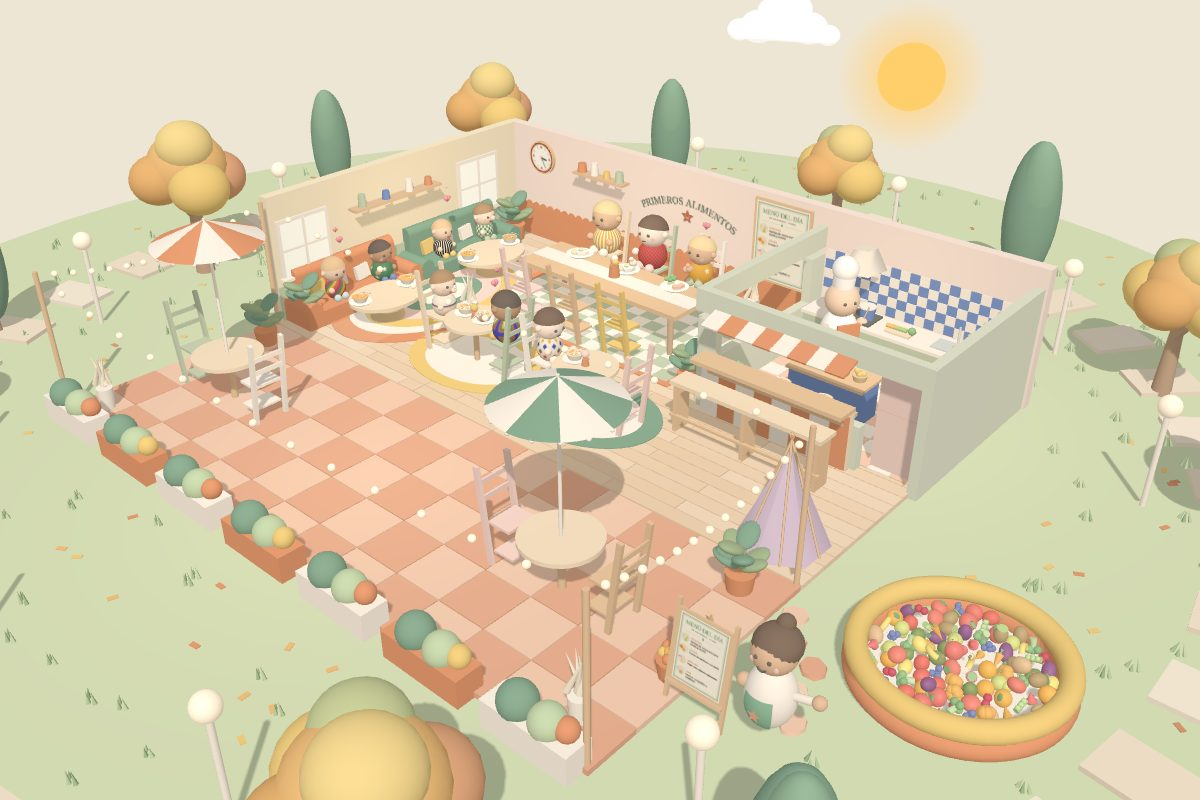
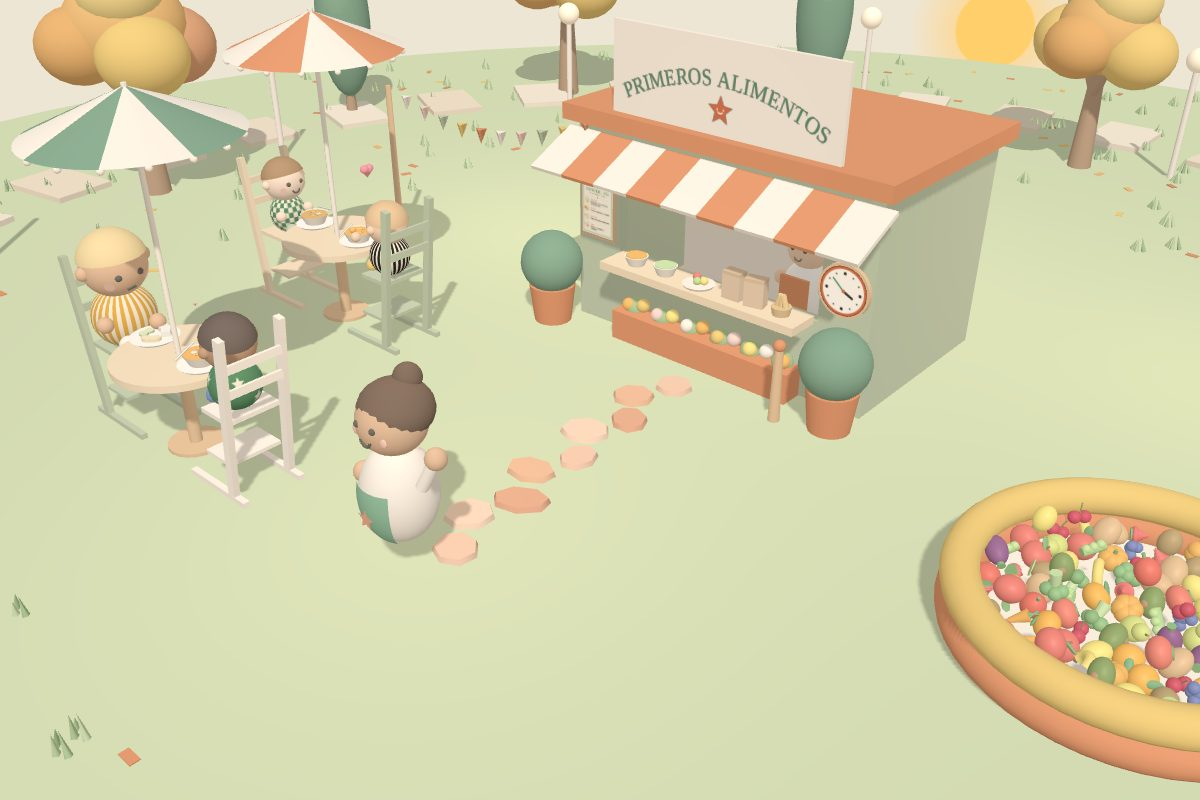
Comedor siempre al aire libre: crece con mesas y jardín (fuente con brócoli de mármol, estatuas, setos, pérgola). Landing: sección sencilla con captura del nivel 1
Claude-Session: https://claude.ai/code/session_01Q3rhL7YYmPrw8ANC1Zn74v

diff --git a/comedor/index.html b/comedor/index.html
@@ -341,7 +341,7 @@ const PANTRY={
 };
 const P2=Math.PI/2,PI=Math.PI;
 const SEATS={
- 'Banco':[[-5.95,1.8,P2],[-3.85,1.8,-P2],[-4.55,4.9,P2],[-2.45,4.9,-P2]].map(([x,z,r])=>[x,z,r,.88,1.12,.6]),
+ 'Banco':[],
  'Cola':[[-.55,1.0],[-.45,1.85],[-.3,2.7]].map(([x,z])=>[x,z,PI,.05,.42,.4]),
  'Barra':[2.95,3.75,4.55,5.35].map(x=>[x,-.82,PI,1.15,1.42,.62]),
  'Pequeño':[[-1.2,-4.4],[.9,-2.6]].flatMap(([x,z])=>[[x,z-.95,0,.88,1.12,.55],[x,z+.95,PI,.88,1.12,.55]]),
@@ -388,7 +388,7 @@ function arch(x,y0,z,w,h,c,ry=0,mat){const g=new THREE.Group();g.position.set(x,
  const t=new THREE.Mesh(geo('half'+w,()=>new THREE.CircleGeometry(w/2,32,0,PI)),mm);t.position.y=h-w/2;g.add(t);return g}
 
 // exterior
-mk(cyl(17,17,.4,64),0xa9c487,0,-.21,0);
+const OUTER=new THREE.Group();S.add(OUTER);CUR=OUTER;mk(cyl(17,17,.4,64),0xa9c487,0,-.21,0);
 for(let i=0;i<40;i++){const a=i/40*Math.PI*2,t=mk(box(1.4,.1,1),i%2?0xdcc8a6:0xe8d9bb,Math.cos(a)*12.6,.03,Math.sin(a)*12.6);t.rotation.y=-a}
 const TREEF=[];
 function tree(x,z,s,i){const T=0x8a6446,G=[0x6f9a5a,0x5c8a50,0x7fa865,0x668f55];
@@ -397,7 +397,7 @@ function tree(x,z,s,i){const T=0x8a6446,G=[0x6f9a5a,0x5c8a50,0x7fa865,0x668f55];
 function cypress(x,z,s){mk(cyl(.08*s,.12*s,.6*s,8),0x8a6446,x,.3*s,z);const c=mk(sph(+(.55*s).toFixed(2)),0x3f6b4f,x,1.9*s,z);c.scale.set(1,2.8,1);const c2=mk(sph(+(.42*s).toFixed(2)),0x4a7a58,x+.08*s,2.4*s,z+.1*s);c2.scale.set(1,2.6,1)}
 [[-10,-8,1.1],[9,-8.5,1],[-11,1,1.15],[12,-4.5,.95],[-8,9.5,1.05],[7,10,1.1],[0,-10.5,1]].forEach(([x,z,s],i)=>tree(x,z,s,i));
 [[-5.5,-10.6,1],[4.8,-10.9,1.1],[-12.2,-4,.95],[10.5,7.6,1],[-11.4,6,.9]].forEach(([x,z,s])=>cypress(x,z,s));
-for(let i=1;i<12;i++){const a=i/12*Math.PI*2+.13,x=Math.cos(a)*11,z=Math.sin(a)*11;mk(cyl(.05,.05,1.9),C.cream,x,.95,z);bulb(x,2,z,.2)}
+for(let i=1;i<12;i++){const a=i/12*Math.PI*2+.13,x=Math.cos(a)*11,z=Math.sin(a)*11;mk(cyl(.05,.05,1.9),C.cream,x,.95,z);bulb(x,2,z,.2)}CUR=null;
 
 const REST=new THREE.Group();S.add(REST);const BIG=new THREE.Group(),SOF=new THREE.Group(),PLAY=new THREE.Group(),SMALL=new THREE.Group(),MID=new THREE.Group();REST.add(BIG,SOF,PLAY,SMALL,MID);const WIDE=new THREE.Group(),NARROW=new THREE.Group();REST.add(WIDE,NARROW);CUR=REST;
 // suelo de madera y paredes
@@ -646,7 +646,7 @@ function dish(d,p,x,y,z,sc=1.05){const g=new THREE.Group();g.position.set(x,y,z)
 
 
 // niveles: el restaurante crece con los bebés que comieron ayer
-const LVN=['','Para llevar','Restaurante pequeño','Restaurante','Restaurante con terraza','Restaurante con azotea','Restaurante con jardín','Franquicias'];
+const LVN=['','Para llevar','Terraza','Jardín con fuente','Jardín con estatuas','Jardín de palacio','Gran jardín de palacio','Franquicias'];
 const levelOf=n=>n<=3?1:n<=6?2:n<=12?3:n<=25?4:n<=50?5:n<=150?6:7;
 function signTex2(sub){const c=document.createElement('canvas');c.width=512;c.height=150;const x=c.getContext('2d'),tx=new THREE.CanvasTexture(c);tx.encoding=THREE.sRGBEncoding;
  const d=()=>{x.clearRect(0,0,512,150);x.fillStyle='#f4e9d8';x.beginPath();x.roundRect?x.roundRect(4,4,504,142,40):x.rect(4,4,504,142);x.fill();x.fillStyle='#4a8760';x.textAlign='center';x.font='50px "Luckiest Guy", cursive';x.fillText('PRIMEROS ALIMENTOS',256,70,470);
@@ -671,7 +671,7 @@ const KIOSK=new THREE.Group();S.add(KIOSK);CUR=KIOSK;
  mk(box(3.1,1.12,.06),0xf4e9d8,X,3.3,Z+1.28);const sg=new THREE.Mesh(new THREE.PlaneGeometry(2.9,.97),new THREE.MeshBasicMaterial({map:signTex,transparent:true}));sg.position.set(X,3.3,Z+1.32);KIOSK.add(sg);
  {const km=new THREE.Group();km.position.set(X-1.775,1.5,Z+1.32);KIOSK.add(km);mk(box(.56,.74,.04),C.wood,0,0,0,km);const kp=new THREE.Mesh(new THREE.PlaneGeometry(.5,.66),new THREE.MeshStandardMaterial({map:mbT,roughness:.9}));kp.position.z=.025;km.add(kp);mk(cyl(.01,.01,.3,4),0x8a6446,0,.48,0,km).rotation.z=.5;km.traverse(o=>o.userData.menu=1)}
  [[-1.6],[1.4]].forEach(([dx])=>{mk(cyl(.3,.24,.5),C.terra,X+dx*1.4,.25,Z+1.7);mk(sph(.4),C.olive,X+dx*1.4,.8,Z+1.7)});
- [[-4.9,1.8,C.cream,C.terra],[-3.5,4.9,C.cream,C.olive]].forEach(([x,z,a,b2])=>{mk(cyl(.7,.7,.08,32),C.woodL,x,1.05,z);mk(cyl(.07,.07,1),C.wood,x,.5,z);mk(cyl(.3,.3,.04,20),C.wood,x,.02,z);parasol(x,z,a,b2)});
+
  {const pts=[[X-2.0,2.55,Z+1.3],[-6.4,2.3,-.4]];mk(cyl(.04,.05,2.3,8),C.wood,-6.4,1.15,-.4);for(let i=0;i<=10;i++){const t=i/10,x=pts[0][0]+(pts[1][0]-pts[0][0])*t,z=pts[0][2]+(pts[1][2]-pts[0][2])*t,y=pts[0][1]+(pts[1][1]-pts[0][1])*t-Math.sin(t*PI)*.35;if(i%1===0&&i<10){const f=new THREE.Mesh(new THREE.ConeGeometry(.09,.2,3),M([C.terra,C.mustard,C.sage,C.blush,C.cream][i%5]));f.rotation.x=PI;f.position.set(x,y-.1,z);f.rotation.y=Math.atan2(pts[1][0]-pts[0][0],pts[1][2]-pts[0][2]);KIOSK.add(f)}}}
  {mk(box(2.6,.38,.3),C.terra,X,.19,Z+1.45);for(let i=0;i<11;i++)mk(sph(.085),[0xe8892c,0xd9a23b,0xe8b4a8,0xf3d04a,C.cream][i%5],X-1.15+i*.23,.45+(i%2)*.05,Z+1.45);for(let i=0;i<6;i++)mk(sph(.13),0x6f9a5a,X-1.1+i*.44,.4,Z+1.38)}
  [[.0,.35]].forEach(([x,z])=>{mk(cyl(.05,.07,.9,10),C.wood,x+.9,.45,z);mk(sph(.07),C.terra,x+.9,.93,z)});
@@ -753,7 +753,7 @@ const starG=new THREE.OctahedronGeometry(.09),starM=new THREE.MeshStandardMateri
 function heart(){const h=new THREE.Group();mk(sph(.05),0xe05a6a,-.035,0,0,h);mk(sph(.05),0xe05a6a,.035,0,0,h);const c=mk(new THREE.ConeGeometry(.07,.09,12),0xe05a6a,0,-.06,0,h);c.rotation.x=PI;return h}
 let used={},babies=[],LVL=4;
 let LASTK='';
-function seatFor(st){const base=LVL>=4?['Trozos','Purés','Grumos']:['Trozos','Purés'];const keys=LVL===1?['Banco','Cola']:LVL===2?['Pequeño','Barra']:[...(base.includes(st)?[st]:[]),...base.filter(x=>x!==st),'Barra',...(LVL>=4?['Terraza']:[]),...(LVL>=5?['Azotea']:[]),...(LVL>=6?['Jardín']:[])];for(const k of keys){const n=used[k]||0;if(n<SEATS[k].length){used[k]=n+1;LASTK=k;return SEATS[k][n]}}return null}
+function seatFor(st){const keys=['Banco','Cola'];for(const k of keys){const n=used[k]||0;if(n<SEATS[k].length){used[k]=n+1;LASTK=k;return SEATS[k][n]}}return null}
 function addBaby(d,i,instant){const st=d.stage||STAGE[d.tex],seat=seatFor(st);if(!seat)return null;
  const [x,z,ry,s,py,po,y0]=seat;
  const g=new THREE.Group();g.position.set(x,y0||0,z);g.rotation.y=ry;S.add(g);
@@ -795,7 +795,38 @@ const HOST=new THREE.Group();S.add(HOST);const hostArm=new THREE.Group();
  
  H.traverse(o=>o.userData.host=1)}
 const PATHG=new THREE.Group();S.add(PATHG);
-function buildPath(A,B,Cc){while(PATHG.children.length)PATHG.remove(PATHG.children[0]);const len=Math.hypot(B[0]-A[0],B[1]-A[1]),n=Math.max(3,Math.round(len/.5));let sd=5;const rnd=()=>(sd=(sd*16807)%2147483647)/2147483647;
+const TBL=new THREE.Group();S.add(TBL);const GDN=new THREE.Group();S.add(GDN);
+const MARB=0xefebe4;
+function clearG(g){while(g.children.length)g.remove(g.children[0])}
+function layout(L){if(L===1)return {tables:[[-4.9,1.8,2],[-3.5,4.9,2]],Ze:4.85};
+ const T=[0,2,4,8,12,16,24,24][L],c=L===2?1:L<=4?2:3,rows=Math.ceil(T/(2*c)),tables=[];
+ for(let r=0;r<rows;r++)for(let k=0;k<c;k++)[[-3.4-k*3,1],[2.8+k*3,1]].forEach(([x])=>{if(tables.length<T)tables.push([x,1.8+r*3,4])});
+ return {tables,Ze:1.8+rows*3+.8,c,rows}}
+function marbleStatue(kind,x,z,g){mk(cyl(.42,.48,.7,16),MARB,x,.35,z,g,.4);mk(cyl(.5,.5,.08,16),MARB,x,.74,z,g,.4);
+ if(kind==='zanahoria'){const c=mk(new THREE.ConeGeometry(.22,.95,16),MARB,x,1.28,z,g,.35);c.rotation.x=PI;[-.3,0,.3].forEach(r=>{const l=mk(cyl(.03,.05,.35,6),MARB,x,1.86,z,g,.35);l.rotation.z=r})}
+ else if(kind==='pera'){mk(sph(.3),MARB,x,1.08,z,g,.35);mk(sph(.21),MARB,x,1.42,z,g,.35);mk(cyl(.025,.025,.15,6),MARB,x,1.68,z,g,.35)}
+ else if(kind==='aguacate'){const a=mk(sph(.3),MARB,x,1.2,z,g,.35);a.scale.set(.85,1.25,.85);const h=mk(sph(.16),0xd9d3c7,x,1.15,z+.22,g,.35);h.scale.z=.4}
+ else{const f=mk(new THREE.ConeGeometry(.26,.5,16),MARB,x,1.13,z,g,.35);f.rotation.x=PI;mk(sph(.26),MARB,x,1.34,z,g,.35).scale.y=.6}}
+function fountain(x,z,g){mk(cyl(1.25,1.32,.38,40),MARB,x,.19,z,g,.4);const w=new THREE.Mesh(cyl(1.1,1.1,.04,40),new THREE.MeshStandardMaterial({color:0x9fc6d8,roughness:.08,metalness:.1}));w.position.set(x,.36,z);g.add(w);
+ const rim=mk(new THREE.TorusGeometry(1.28,.07,10,40),MARB,x,.38,z,g,.4);rim.rotation.x=P2;mk(cyl(.22,.3,.7,16),MARB,x,.6,z,g,.4);mk(cyl(.55,.45,.12,24),MARB,x,.98,z,g,.4);
+ mk(cyl(.12,.17,.65,12),MARB,x,1.35,z,g,.35);[[0,1.95,0,.36],[.3,1.8,.1,.26],[-.3,1.82,.05,.27],[.05,1.8,-.3,.25],[-.08,1.78,.3,.25],[.18,2.15,.1,.22],[-.18,2.12,-.1,.22]].forEach(([dx,y,dz,r])=>mk(sph(r),MARB,x+dx,y,z+dz,g,.35));
+ for(let i=0;i<6;i++){const a=i/6*PI*2,j=new THREE.Mesh(new THREE.TorusGeometry(.35,.02,6,12,PI*.8),new THREE.MeshStandardMaterial({color:0xcfe6f0,transparent:true,opacity:.7}));j.position.set(x+Math.cos(a)*.62,.95,z+Math.sin(a)*.62);j.rotation.y=-a;g.add(j)}}
+function buildGarden(){clearG(TBL);clearG(GDN);const L=LVL,lo=layout(L),cols=[[C.cream,C.terra],[C.cream,C.olive],[C.cream,C.mustard],[C.cream,C.sage]];SEATS.Banco=[];used={};
+ const pc=CUR;CUR=TBL;
+ lo.tables.forEach(([x,z,n],i)=>{mk(cyl(.7,.7,.08,32),C.woodL,x,1.05,z);mk(cyl(.07,.07,1),C.wood,x,.5,z);mk(cyl(.3,.3,.04,20),C.wood,x,.02,z);parasol(x,z,...cols[i%4]);
+  const ss=n===2?[[x-1.05,z,P2],[x+1.05,z,-P2]]:[[x-1.05,z,P2],[x+1.05,z,-P2],[x,z-1.05,0],[x,z+1.05,PI]];
+  ss.forEach(([sx,sz,r],j)=>{trona(sx,sz,r,.88,WOOD[(i+j)%6],TBL,0);SEATS.Banco.push([sx,sz,r,.88,1.12,.6])})});
+ CUR=GDN;const Ze=lo.Ze;
+ if(L>=2){for(let z=1.4;z<Ze-1;z+=2.2){if(L>=3&&Math.abs(z-(Ze-3.4))<2.2)continue;[-1.3,.7].forEach((x,k)=>{mk(cyl(.2,.16,.3,12),C.terra,x,.15,z);for(let i=0;i<5;i++)mk(sph(.08),[0xe8892c,0xd9a23b,0xe8b4a8,0xd9433a,0xf3d04a][(i+k)%5],x+Math.cos(i*1.3)*.09,.38,z+Math.sin(i*1.3)*.09)})}}
+ if(L>=3)fountain(-.4,Math.max(4.6,Ze-3.4),GDN);
+ if(L>=4){marbleStatue('zanahoria',-3.7,-.7,GDN);marbleStatue('pera',3.0,-.7,GDN)}
+ if(L>=5){const side=3.4+3*(lo.c-1)+1.7;[-side-.6,side-.6+.6].forEach(x=>{for(let z=.6;z<Ze-.4;z+=.9)mk(box(.5,.5,.85),0x5c8a50,x,.25,z)});
+  [[-1.5],[.9]].forEach(([x])=>mk(cyl(.06,.06,2.6,8),C.cream,x,1.3,Ze-1.2));const ar=mk(new THREE.TorusGeometry(1.2,.06,8,24,PI),C.cream,-.3,2.6,Ze-1.2);for(let i=0;i<9;i++){const a=i/8*PI;mk(sph(.13),[0xe8b4a8,0x6f9a5a,0xf3d04a][i%3],-.3+Math.cos(a)*1.2,2.6+Math.sin(a)*1.2,Ze-1.2)}}
+ if(L>=6){marbleStatue('aguacate',-4.4,Ze+.6,GDN);marbleStatue('fresa',5.4,Ze+.6,GDN);for(let i=0;i<6;i++){[-1,1].forEach(k=>{const x=k<0?-12.6:12,z=1+i*2.4;mk(cyl(.08,.12,.5,8),0x8a6446,x,.25,z);mk(sph(.42),0x5c8a50,x,.85,z)})}}
+ CUR=pc;return lo}
+
+function stone(x,z,i){const st=new THREE.Mesh(cyl(.24,.26,.06,7),M([0xe0a07c,0xd98a5f,0xc9724f,0xe8b48f][i%4],.9));st.position.set(x,.04,z);st.scale.set(.9+(i%3)*.12,1,.75+(i%2)*.15);st.rotation.y=i*1.7;st.receiveShadow=true;PATHG.add(st)}
+function buildPath(A,B,Cc,keep){if(!keep)while(PATHG.children.length)PATHG.remove(PATHG.children[0]);const len=Math.hypot(B[0]-A[0],B[1]-A[1]),n=Math.max(3,Math.round(len/.5));let sd=5;const rnd=()=>(sd=(sd*16807)%2147483647)/2147483647;
  for(let i=0;i<=n;i++){const t=i/n,u=1-t,x=u*u*A[0]+2*u*t*Cc[0]+t*t*B[0],z=u*u*A[1]+2*u*t*Cc[1]+t*t*B[1],dx=2*u*(Cc[0]-A[0])+2*t*(B[0]-Cc[0]),dz=2*u*(Cc[1]-A[1])+2*t*(B[1]-Cc[1]),dl=Math.hypot(dx,dz)||1,off=(i%2?.13:-.13);
   const st=new THREE.Mesh(cyl(.24,.26,.06,7),M([0xe0a07c,0xd98a5f,0xc9724f,0xe8b48f][i%4],.9));st.position.set(x-dz/dl*off,.04,z+dx/dl*off);st.scale.set(.85+rnd()*.35,1,.7+rnd()*.25);st.rotation.y=rnd()*6;st.receiveShadow=true;PATHG.add(st)}}
 const ENT=new THREE.Group();S.add(ENT);let MENUS=null;
@@ -821,7 +852,7 @@ const MOONM=new THREE.Mesh(new THREE.PlaneGeometry(6.5,6.5),new THREE.MeshBasicM
 SKY.add(SUNM,MOONM);[SUNM,MOONM].forEach(m=>m.renderOrder=-1);
 // estación del año: hojas, flores o pinos
 const SEAK=(location.hash.match(/otono|invierno|primavera|verano/)||[])[0]||{otoño:'otono'}[SEASON.k]||SEASON.k;
-{let sd=7;const rnd=()=>(sd=(sd*16807)%2147483647)/2147483647;const SE=new THREE.Group();S.add(SE);
+{let sd=7;const rnd=()=>(sd=(sd*16807)%2147483647)/2147483647;const SE=new THREE.Group();OUTER.add(SE);
  const free=(x,z)=>!(Math.abs(x)<7.8&&z>-7&&z<7.4)&&Math.hypot(x-9.73,z-1.88)>2.1&&Math.hypot(x-8,z-3.4)>1.2&&Math.hypot(x,z)<16;
  const spot=()=>{for(let k=0;k<40;k++){const a=rnd()*PI*2,r=7+rnd()*9,x=Math.cos(a)*r,z=Math.sin(a)*r;if(free(x,z))return [x,z]}return null};
  if(SEAK==='otono'){TREEF.forEach((m,i)=>m.material=M([0xd98a3a,0xe0a940,0xc9772f,0x8fa35a,0xd9a23b,0xb8653a,0xe0b54f][(i*3+(m.userData.tk||0))%7],.85));
@@ -832,7 +863,7 @@ const SEAK=(location.hash.match(/otono|invierno|primavera|verano/)||[])[0]||{oto
   if(SEAK==='primavera')TREEF.forEach((m,i)=>{if(i%3===1)m.material=M(0xf2c4cc,.85)});
   for(let i=0;i<110;i++){const p=spot();if(!p)continue;const h=.18+rnd()*.15;mk(cyl(.012,.012,h,5),0x5f8a50,p[0],h/2,p[1],SE).castShadow=false;mk(sph(.055),cols[i%cols.length],p[0],h+.03,p[1],SE);if(i%3===0)mk(sph(.03),0x8a5a3c,p[0],h+.06,p[1],SE)}}
 }
-{let sd=11;const rnd=()=>(sd=(sd*16807)%2147483647)/2147483647;const GR=new THREE.Group();S.add(GR);const gc=[0x7fa865,0x6f9a5a,0x8fb478,0x5f8a50];
+{let sd=11;const rnd=()=>(sd=(sd*16807)%2147483647)/2147483647;const GR=new THREE.Group();OUTER.add(GR);const gc=[0x7fa865,0x6f9a5a,0x8fb478,0x5f8a50];
  for(let i=0;i<260;i++){const a=rnd()*PI*2,r=7.5+rnd()*9,x=Math.cos(a)*r,z=Math.sin(a)*r;if(Math.abs(x)<7.8&&z>-7&&z<7.4)continue;if(Math.hypot(x-9.6,z-1.9)<2)continue;
   for(let k=0;k<3;k++){const h=.14+rnd()*.12,c=new THREE.Mesh(new THREE.ConeGeometry(.035,h,4),M(gc[(i+k)%4]));c.position.set(x+(k-1)*.06,h/2,z+(k%2)*.05);c.rotation.z=(k-1)*.3;GR.add(c)}}}
 // el tiempo de verdad en Barcelona (Open-Meteo)
@@ -844,7 +875,7 @@ const RAIN=new THREE.LineSegments(rainG,new THREE.LineBasicMaterial({color:0x9fb
 const SN=900,snowA=new Float32Array(SN*3);for(let i=0;i<SN;i++)snowA.set([rnd2()*40-20,rnd2()*16,rnd2()*40-20],i*3);
 const snowG=new THREE.BufferGeometry();snowG.setAttribute('position',new THREE.BufferAttribute(snowA,3));
 const SNOW=new THREE.Points(snowG,new THREE.PointsMaterial({color:0xffffff,size:.13,transparent:true,opacity:.9}));SNOW.frustumCulled=false;SNOW.visible=false;S.add(SNOW);
-const PUD=new THREE.Group();S.add(PUD);[[-9,-3,1.2],[-10,5,.9],[8.5,-6,1],[-8.5,8.5,.8],[12.5,4.5,.7],[-3,-9.5,1],[4,-9.6,.8]].forEach(([x,z,r])=>{const m=new THREE.Mesh(new THREE.CircleGeometry(r,24),new THREE.MeshStandardMaterial({color:0x9fb6cc,roughness:.15,metalness:.1,transparent:true,opacity:.75}));m.rotation.x=-P2;m.position.set(x,.015,z);m.scale.x=1.5;m.receiveShadow=true;PUD.add(m)});PUD.visible=false;
+const PUD=new THREE.Group();OUTER.add(PUD);[[-9,-3,1.2],[-10,5,.9],[8.5,-6,1],[-8.5,8.5,.8],[12.5,4.5,.7],[-3,-9.5,1],[4,-9.6,.8]].forEach(([x,z,r])=>{const m=new THREE.Mesh(new THREE.CircleGeometry(r,24),new THREE.MeshStandardMaterial({color:0x9fb6cc,roughness:.15,metalness:.1,transparent:true,opacity:.75}));m.rotation.x=-P2;m.position.set(x,.015,z);m.scale.x=1.5;m.receiveShadow=true;PUD.add(m)});PUD.visible=false;
 const cloudT=(()=>{const c=document.createElement('canvas');c.width=256;c.height=128;const x=c.getContext('2d');x.fillStyle='#fff';[[70,80,38],[115,62,48],[165,72,42],[200,88,30],[100,92,34],[150,96,32]].forEach(([a,b,r])=>{x.beginPath();x.arc(a,b,r,0,7);x.fill()});const t=new THREE.CanvasTexture(c);t.encoding=THREE.sRGBEncoding;return t})();
 const CLOUDS=[[-9,3,1.1],[8,5,.85],[1,-3,.75],[-16,-2,.95],[15,0,1]].map(([x,y,sc])=>{const g=new THREE.Group();g.position.set(x,y,0);g.scale.setScalar(sc);const mat=new THREE.MeshStandardMaterial({color:0xffffff,roughness:1,emissive:0xffffff,emissiveIntensity:.45,fog:false});
  [[0,.2,0,1.5],[1.6,-.2,.2,1.15],[-1.6,-.25,0,1.2],[.6,.9,-.2,1.05],[-.8,.7,.3,.95],[2.8,-.55,0,.75],[-2.8,-.5,0,.8]].forEach(([a,b2,c,r])=>{const m=new THREE.Mesh(sph(r),mat);m.position.set(a,b2,c);m.scale.y=.85;g.add(m)});
@@ -1019,7 +1050,8 @@ async function fetchLive(sl){try{const r=await fetch(FS,{cache:'no-store'});if(!
  const MC={};(doc.items||[]).forEach(x=>{if(x&&x.b)MC[x.b]=(MC[x.b]||0)+1});
  return (doc.items||[]).filter(x=>x&&x.ml===sl.meal&&Array.isArray(x.ings)&&x.ings.length&&STG[x.tex]).map(x=>({k:String(x.k),meal:x.ml,m:Math.max(4,Math.min(36,+x.m||6)),dish:String(x.dish||x.ings.join(', ')).slice(0,90),ings:x.ings.map(String).slice(0,6),tex:x.tex,stage:STG[x.tex],r:['love','like','meh'].includes(x.r)?x.r:'like',nw:x.nw?1:0,mc:x.b?MC[x.b]:1}))}catch(e){return []}}
 let demoN=0;
-async function getList(sl){if(LIVE)return fetchLive(sl);const all=service(sl).map((d,i)=>({...d,k:'d'+i}));
+async function getList(sl){const lim=+((location.hash.match(/bebes-(\d+)/)||[])[1]||0);if(lim)return (await getList0(sl)).slice(0,lim);return getList0(sl)}
+async function getList0(sl){if(LIVE)return fetchLive(sl);const all=service(sl).map((d,i)=>({...d,k:'d'+i}));
  if(!sl.open)return all;if(!demoN)demoN=Math.max(3,Math.round(all.length*Math.min(1,.35+sl.frac*.65)));else demoN++;return all.slice(0,Math.min(demoN,all.length))}
 const keys=new Set();
 function sync(list,first){list.forEach(d=>{if(keys.has(d.k))return;keys.add(d.k);const i=TODAY.length;TODAY.push(d);addBaby(d,i,first);if(!first&&!sheet.classList.contains('open'))toast(d)});topFood();refreshKitchen()}
@@ -1032,13 +1064,18 @@ setInterval(async()=>{updClock();const n=nowSlot();if(n.k!==SL.k||n.open!==SL.op
 // cámara
 let portrait=false,AYER=null;
 function applyLevel(){const h=(location.hash.match(/nivel-(\d)/)||[])[1];LVL=h?Math.max(1,Math.min(7,+h)):AYER!=null?levelOf(AYER):4;
- KIOSK.visible=LVL===1;REST.visible=LVL>=2;SMALL.visible=LVL===2;BIG.visible=SOF.visible=LVL>=3;MID.visible=PLAY.visible=TER.visible=LVL>=4;WIDE.visible=LVL>=3;NARROW.visible=LVL===2;{const n=LVL===2;ARCH.position.x=sign.position.x=n?-.95:-1.3;ARCH.scale.setScalar(n?.8:1);ARCH.visible=false;sign.scale.setScalar(n?.8:1)}
- const OF=LVL===1?[0,0]:LVL<=3?[-7.1,-.1]:[0,0];ENT.position.set(OF[0],0,OF[1]);movePit(...(LVL===1?[5.23,1.38]:LVL<=3?[5.33,3.38]:[9.73,1.88]));ROOF.visible=LVL>=5;GAR.visible=LVL>=6;FR.visible=LVL>=7;S.fog.far=LVL>=7?160:70;ctl.maxDistance=LVL>=7?110:40;
- CLOCK.scale.setScalar(LVL===1?.75:1);if(LVL===1)CLOCK.position.set(1.28,1.5,-.24),CLOCK.rotation.set(0,0,0);else if(LVL===2)CLOCK.position.set(-2.3,2.3,-2.4),CLOCK.rotation.set(0,P2,0);else CLOCK.position.set(-5.95,2.3,-5.94),CLOCK.rotation.set(0,0,0);
- if(LVL===1)HOST.position.set(-.05,0,4.85);else HOST.position.set(8.4+OF[0],0,4.7+OF[1]);HOST.rotation.y=0;
- buildPath(...(LVL===1?[[-.5,.55],[-.1,4.35],[-.3,2.4]]:LVL<=3?[[1.1,1.95],[1.3,4.15],[1.1,3.0]]:[[7.2,2.4],[8.35,4.2],[8.2,3.0]]));ENT.visible=LVL>1;frame()}
+ KIOSK.visible=true;REST.visible=false;TER.visible=false;ROOF.visible=false;GAR.visible=false;FR.visible=LVL>=7;S.fog.far=LVL>=7?160:70;ctl.maxDistance=LVL>=7?110:40;ARCH.visible=false;
+ OUTER.scale.setScalar([1,1,1,1.12,1.3,1.45,1.75,1.75][LVL]);
+ const lo=buildGarden();LO=lo;const Ze=lo.Ze;
+ CLOCK.scale.setScalar(.75);CLOCK.position.set(1.28,1.5,-.24);CLOCK.rotation.set(0,0,0);
+ if(LVL===1){HOST.position.set(-.05,0,4.85);movePit(5.23,1.38)}else{HOST.position.set(-.3,0,Ze);movePit(2.9,Ze-.2)}HOST.rotation.y=0;
+ ENT.position.set(HOST.position.x-8.4,0,HOST.position.z-4.7);ENT.visible=LVL>1;
+ clearG(PATHG);if(LVL===1)buildPath([-.5,.55],[-.1,4.35],[-.3,2.4],1);else if(LVL===2)buildPath([-.5,.55],[-.3,Ze-.45],[-.4,Ze/2],1);
+ else{const fz=Math.max(4.6,Ze-3.4);buildPath([-.5,.55],[-.4,fz-1.75],[-.45,(fz-1.2)/2],1);buildPath([-.4,fz+1.75],[-.3,Ze-.45],[-.35,(fz+Ze)/2],1);for(let i=0;i<14;i++){const a=i/14*PI*2;stone(-.4+Math.cos(a)*1.7,fz+Math.sin(a)*1.7,i)}}
+ frame()}
+let LO=null;
 addEventListener('hashchange',()=>startService());
-function frame(){const d=[0,14,15,19,25,26,29,48][LVL||4]*(portrait?1.9:1),t=new THREE.Vector3(LVL===1?.3:LVL<=3?1:LVL<=6?1.8:-.5,1,LVL===1?2.6:LVL<=3?2.8:LVL===6?2.2:.6);ctl.target.copy(t);cam.position.copy(t).add(new THREE.Vector3(.55,.48,.62).normalize().multiplyScalar(d))}
+function frame(){const d=[0,14,17,21,25,29,34,48][LVL||4]*(portrait?1.9:1),Ze=LO?LO.Ze:5,t=new THREE.Vector3(LVL===1?.3:-.3,1,LVL===1?2.6:LVL>=7?.6:Ze/2);ctl.target.copy(t);cam.position.copy(t).add(new THREE.Vector3(.55,.48,.62).normalize().multiplyScalar(d))}
 
 // luz real según el sol en Barcelona
 function sunDown(){const d=new Date(),N=Math.floor((d-new Date(d.getFullYear(),0,0))/864e5),lat=41.39*PI/180,dec=23.44*PI/180*Math.sin(2*PI*(284+N)/365);

diff --git a/index.html b/index.html
@@ -354,7 +354,6 @@ footer{background:#0b0b24}
       <label class="cons"><input type="checkbox" name="ok" required><span data-i18n="consent">Acepto recibir emails sobre la app. <a href="/privacy.html">Privacidad</a></span></label>
       <p class="err" aria-live="polite"></p>
     </form>
-    <p class="live" id="live" hidden aria-live="polite"><i></i><span></span></p>
   </div>
 </header>
 
@@ -419,13 +418,11 @@ footer{background:#0b0b24}
   <section class="cmd" id="comedor">
     <div class="wrap">
       <div class="cmdc">
-        <a class="cmdimg" href="/comedor/" aria-label="Entrar al comedor"><picture><source media="(prefers-color-scheme: dark)" srcset="capturas/comedor-dark.jpg"><img src="capturas/comedor.jpg" alt="El comedor de Primeros alimentos: bebés comiendo en un restaurante ilustrado" loading="lazy" width="1200" height="800"></picture><span class="cmdlive"><i></i><span data-i18n="cm_live">En directo</span></span></a>
+        <a class="cmdimg" href="/comedor/" aria-label="Entrar al comedor"><picture><source media="(prefers-color-scheme: dark)" srcset="capturas/comedor-dark.jpg"><img src="capturas/comedor.jpg" alt="El comedor de Primeros alimentos: cuatro bebés comiendo en las mesas del puesto" loading="lazy" width="1200" height="800"></picture><span class="cmdlive"><i></i><span data-i18n="cm_live">En directo</span></span></a>
         <div class="cmdt">
           <h2 data-i18n="cm_h">El&nbsp;comedor</h2>
-          <p class="cmdn" id="cmdn" data-i18n="cm_n">Asómate a ver qué se cocina hoy</p>
-          <p data-i18n="cm_p">Cada bebé que ves es una comida que una familia acaba de apuntar en la app: su plato, su edad y cómo le ha sentado. Desayunos, comidas, meriendas y cenas, en directo y todo anónimo.</p>
-          <div class="cmdtop" id="cmdtop"></div>
-          <a class="btn" href="/comedor/" data-i18n="cm_btn">Entrar al comedor</a>
+          <p data-i18n="cm_p">Mira en directo qué están comiendo ahora mismo los bebés que usan la app. Cada bebé es una comida que su familia acaba de apuntar, de forma anónima.</p>
+          <a class="btn" href="/comedor/" data-i18n="cm_btn">Verlo en directo</a>
         </div>
       </div>
     </div>
@@ -507,7 +504,7 @@ footer{background:#0b0b24}
       <a class="btn" href="/guia-primeros-alimentos.pdf" target="_blank" rel="noopener" data-i18n="ok_pdf">Abrir la guía (PDF)</a>
       <button class="share" type="button" data-share data-i18n="ok_share">Pásasela a otra mamá o papá</button>
     </div>
-    <a class="okcom" href="/comedor/" data-i18n="ok_com">Mientras esperas, asómate al comedor →</a>
+    <a class="okcom" href="/comedor/" data-i18n="ok_com">Mientras esperas, mira el comedor en directo →</a>
   </div>
 </template>
 
@@ -519,7 +516,7 @@ const LANGS=["es","ca","en"];
 const AEP='<a href="https://enfamilia.aeped.es/noticias/recomendaciones-asociacion-espanola-pediatria-sobre-alimentacion" target="_blank" rel="noopener">AEP</a>';
 const I18N={
  ca:{
-  cm_live:"En directe",cm_h:"El&nbsp;menjador",cm_n:"Treu-hi el cap i mira què es cuina avui",cm_p:"Cada nadó que veus és un àpat que una família acaba d'apuntar a l'app: el plat, l'edat i com li ha anat. Esmorzars, dinars, berenars i sopars, en directe i tot anònim.",cm_btn:"Entrar al menjador",ok_com:"Mentre esperes, treu el cap al menjador →",
+  cm_live:"En directe",cm_h:"El&nbsp;menjador",cm_p:"Mira en directe què estan menjant ara mateix els nadons que fan servir l'app. Cada nadó és un àpat que la seva família acaba d'apuntar, de manera anònima.",cm_btn:"Veure-ho en directe",ok_com:"Mentre esperes, mira el menjador en directe →",
   _title:"Primeros Alimentos · Llista d'espera",
   _desc:"L'app per planificar els primers aliments del teu nadó, amb les recomanacions de l'AEP. Apunta't a la llista d'espera i descarrega't la guia gratuïta per començar.",
   lang_l:"Idioma",
@@ -576,7 +573,7 @@ const I18N={
   copied:"Enllaç copiat"
  },
  en:{
-  cm_live:"Live",cm_h:"The&nbsp;dining&nbsp;room",cm_n:"Take a peek at what's cooking today",cm_p:"Every baby you see is a meal a family has just logged in the app: the dish, the age and how it went. Breakfasts, lunches, snacks and dinners, live and fully anonymous.",cm_btn:"Enter the dining room",ok_com:"While you wait, peek into the dining room →",
+  cm_live:"Live",cm_h:"The&nbsp;dining&nbsp;room",cm_p:"Watch live what the babies using the app are eating right now. Each baby is a meal their family has just logged, anonymously.",cm_btn:"Watch it live",ok_com:"While you wait, watch the dining room live →",
   _title:"Primeros Alimentos · Waitlist",
   _desc:"The app to plan your baby's first foods, following the recommendations of the Spanish Association of Pediatrics (AEP). Join the waitlist and get the free starter guide.",
   lang_l:"Language",
@@ -821,35 +818,6 @@ document.querySelectorAll("[data-form]").forEach(f=>f.addEventListener("submit",
   catch(err){console.error(err);er.textContent=T("err_save");bt.disabled=false;bt.textContent=tx}}));
 </script>
 
-<script>
-(function(){
-const FS='https://firestore.googleapis.com/v1/projects/primeros-alimentos/databases/(default)/documents/publico/comedor?key=AIzaSyBS8bb9UlOaOCJE92cpWE4nAqIFDuerypQ';
-const fv=v=>v==null?null:'stringValue' in v?v.stringValue:'integerValue' in v?+v.integerValue:'doubleValue' in v?v.doubleValue:'booleanValue' in v?v.booleanValue:'arrayValue' in v?(v.arrayValue.values||[]).map(fv):'mapValue' in v?Object.fromEntries(Object.entries(v.mapValue.fields||{}).map(([k,x])=>[k,fv(x)])):null;
-const SL=[['Desayuno',360,690],['Comida',691,960],['Merienda',961,1140],['Cena',1141,1320]];
-const TX={es:{now:{Desayuno:'desayunando',Comida:'comiendo',Merienda:'merendando',Cena:'cenando'},inf:{Desayuno:'desayunar',Comida:'comer',Merienda:'merendar',Cena:'cenar'},part:{Desayuno:'desayunado',Comida:'comido',Merienda:'merendado',Cena:'cenado'},
-  live:(n,v)=>`${n} ${n===1?'bebé':'bebés'} ${v} ahora mismo`,day:n=>`Hoy han pasado ${n} ${n===1?'bebé':'bebés'} por el comedor`,just:(m,v,d)=>`Bebé de ${m} meses acaba de ${v} <b>${d}</b>`,did:(m,v,d)=>`Bebé de ${m} meses ha ${v} <b>${d}</b>`},
- ca:{now:{Desayuno:'esmorzant',Comida:'dinant',Merienda:'berenant',Cena:'sopant'},inf:{Desayuno:'esmorzar',Comida:'dinar',Merienda:'berenar',Cena:'sopar'},part:{Desayuno:'esmorzat',Comida:'dinat',Merienda:'berenat',Cena:'sopat'},
-  live:(n,v)=>`${n} ${n===1?'nadó':'nadons'} ${v} ara mateix`,day:n=>`Avui han passat ${n} ${n===1?'nadó':'nadons'} pel menjador`,just:(m,v,d)=>`Nadó de ${m} mesos acaba d'${v} <b>${d}</b>`,did:(m,v,d)=>`Nadó de ${m} mesos ha ${v} <b>${d}</b>`},
- en:{now:{Desayuno:'having breakfast',Comida:'having lunch',Merienda:'having a snack',Cena:'having dinner'},inf:{Desayuno:'had breakfast:',Comida:'had lunch:',Merienda:'had a snack:',Cena:'had dinner:'},part:{Desayuno:'had breakfast:',Comida:'had lunch:',Merienda:'had a snack:',Cena:'had dinner:'},
-  live:(n,v)=>`${n} ${n===1?'baby':'babies'} ${v} right now`,day:n=>`${n} ${n===1?'baby has':'babies have'} been to the dining room today`,just:(m,v,d)=>`A ${m}-month-old just ${v} <b>${d}</b>`,did:(m,v,d)=>`A ${m}-month-old ${v} <b>${d}</b>`}};
-const L=()=>TX[(document.documentElement.lang||'es').slice(0,2)]||TX.es;
-const esc=t=>String(t).replace(/[&<>"]/g,c=>({'&':'&amp;','<':'&lt;','>':'&gt;','"':'&quot;'}[c]));
-let st=null,ti=null;
-function render(){if(!st)return;const t=L(),{items,meal}=st,cur=items.filter(x=>x.ml===meal),babies=a=>new Set(a.map(x=>x.b||x.k)).size;
- const nNow=babies(cur),nDay=babies(items),cn=document.getElementById('cmdn');
- if(cn){if(nNow>0)cn.textContent=t.live(nNow,t.now[meal]);else if(nDay>0)cn.textContent=t.day(nDay)}
- const c={};items.forEach(x=>(x.ings||[]).forEach(n=>{if(!/^(AOVE|Aceite|Pimentón|Canela|Ajo|Agua)/.test(n))c[n]=(c[n]||0)+1}));
- const top=Object.entries(c).sort((a,b)=>b[1]-a[1]).slice(0,4),tp=document.getElementById('cmdtop');if(tp)tp.innerHTML=top.map(([n])=>`<span>${esc(n)}</span>`).join('');
- const live=document.getElementById('live');if(!live||!items.length)return;const pool=(cur.length?cur:items).slice(-12);let k=0;
- const show=()=>{const x=pool[k++%pool.length],d=String(x.dish||(x.ings||[]).join(', '));const dd=d.charAt(0).toLowerCase()+d.slice(1);live.style.opacity=0;
-  setTimeout(()=>{live.querySelector('span').innerHTML=x.ml===meal?t.just(x.m||8,t.inf[x.ml]||'',esc(dd)):t.did(x.m||8,t.part[x.ml]||'',esc(dd));live.style.opacity=1},350)};
- live.hidden=false;show();clearInterval(ti);if(pool.length>1&&!matchMedia('(prefers-reduced-motion: reduce)').matches)ti=setInterval(show,4500)}
-async function load(){try{const r=await fetch(FS,{cache:'no-store'});if(!r.ok)return;const j=await r.json(),doc=Object.fromEntries(Object.entries(j.fields||{}).map(([k,x])=>[k,fv(x)]));
- const now=new Date(),iso=new Intl.DateTimeFormat('sv-SE',{timeZone:'Europe/Madrid'}).format(now);if(doc.day!==iso)return;
- const hm=new Intl.DateTimeFormat('en-GB',{timeZone:'Europe/Madrid',hour:'2-digit',minute:'2-digit',hour12:false}).format(now).split(':'),mi=(+hm[0]%24)*60+ +hm[1],s=SL.find(x=>mi>=x[1]&&mi<=x[2]);
- st={items:(doc.items||[]).filter(x=>x&&Array.isArray(x.ings)&&x.ings.length),meal:s?s[0]:null};render()}catch(e){}}
-load();new MutationObserver(()=>setTimeout(render,0)).observe(document.documentElement,{attributes:true,attributeFilter:['lang']});
-})();
-</script>
+
 </body>
 </html>
